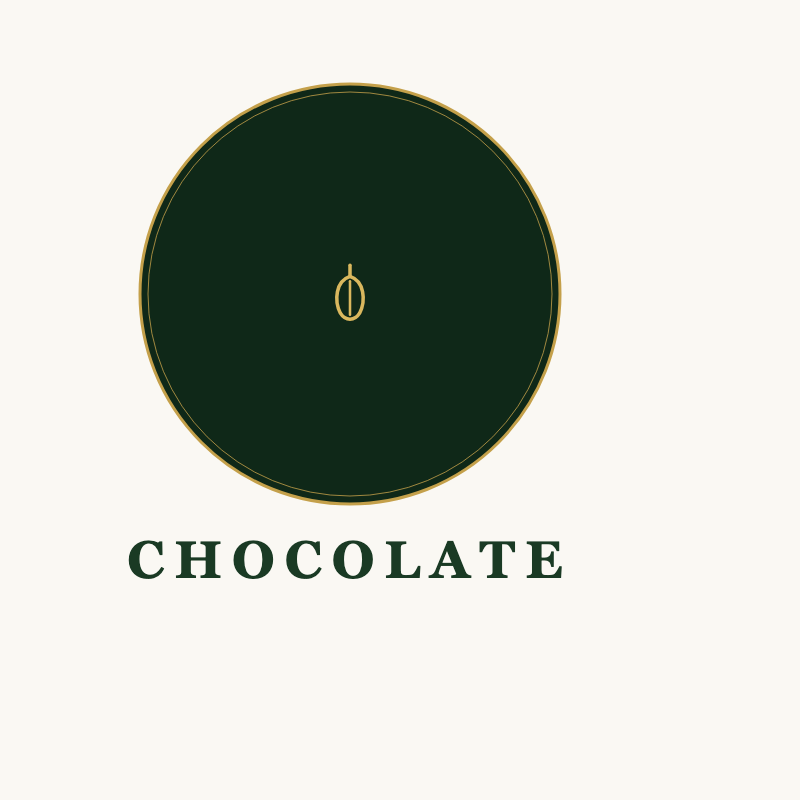
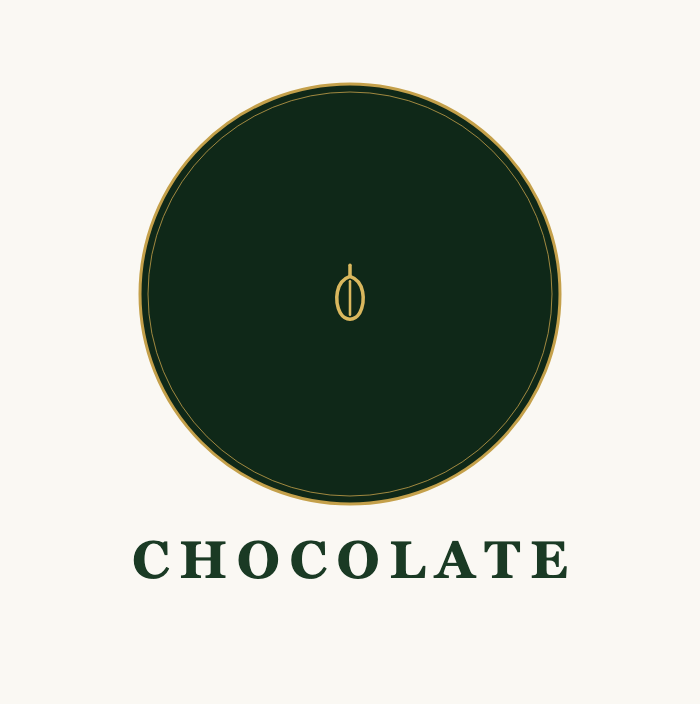
WS register v2: exact-fit renders + letter-spacing centering correction — all 10 assets pixel-audited to ±2px of canvas center

Changed region(s): [[0.15, 0.0938, 0.81, 0.8438], [0.42, 0.3438, 0.54, 0.4688]]

diff --git a/brand/gen_ws.py b/brand/gen_ws.py
@@ -15,10 +15,10 @@ def ws_masthead_pure(S=1400):
     cx = W/2
     return f'''<svg xmlns="http://www.w3.org/2000/svg" viewBox="0 0 {W} {H}">
 <rect width="{W}" height="{H}" fill="{CREAM}"/>
-<text x="{cx}" y="{H*0.42}" text-anchor="middle" font-family="{SERIF}" font-size="196" font-weight="500" fill="{GREEN}" letter-spacing="6">Zafra</text>
+<text x="{cx+3}" y="{H*0.42}" text-anchor="middle" font-family="{SERIF}" font-size="196" font-weight="500" fill="{GREEN}" letter-spacing="6">Zafra</text>
 <line x1="{cx-280}" y1="{H*0.50}" x2="{cx+280}" y2="{H*0.50}" stroke="{GOLD}" stroke-width="1.4"/>
-<text x="{cx}" y="{H*0.60}" text-anchor="middle" font-family="{SANS}" font-size="34" font-weight="500" fill="{GOLD}" letter-spacing="18">TRADING CO.</text>
-<text x="{cx}" y="{H*0.72}" text-anchor="middle" font-family="{SANS}" font-size="22" font-weight="400" fill="{GREEN}" letter-spacing="9" opacity=".75">SAN JUAN · PUERTO RICO</text>
+<text x="{cx+9}" y="{H*0.60}" text-anchor="middle" font-family="{SANS}" font-size="34" font-weight="500" fill="{GOLD}" letter-spacing="18">TRADING CO.</text>
+<text x="{cx+4.5}" y="{H*0.72}" text-anchor="middle" font-family="{SANS}" font-size="22" font-weight="400" fill="{GREEN}" letter-spacing="9" opacity=".75">SAN JUAN · PUERTO RICO</text>
 </svg>'''
 
 def ws_masthead_stamp(S=1400):
@@ -31,10 +31,10 @@ def ws_masthead_stamp(S=1400):
 <circle cx="{cx}" cy="{H*0.26}" r="{r}" fill="none" stroke="{GOLD}" stroke-width="2.4"/>
 <circle cx="{cx}" cy="{H*0.26}" r="{r-9}" fill="none" stroke="{GOLD}" stroke-width="0.9"/>
 {glyph_coffee(cx, H*0.26, 1.05)}
-<text x="{cx}" y="{H*0.56}" text-anchor="middle" font-family="{SERIF}" font-size="172" font-weight="500" fill="{GREEN}" letter-spacing="6">Zafra</text>
-<text x="{cx}" y="{H*0.655}" text-anchor="middle" font-family="{SANS}" font-size="30" font-weight="500" fill="{GOLD}" letter-spacing="16">TRADING CO.</text>
+<text x="{cx+3}" y="{H*0.56}" text-anchor="middle" font-family="{SERIF}" font-size="172" font-weight="500" fill="{GREEN}" letter-spacing="6">Zafra</text>
+<text x="{cx+8}" y="{H*0.655}" text-anchor="middle" font-family="{SANS}" font-size="30" font-weight="500" fill="{GOLD}" letter-spacing="16">TRADING CO.</text>
 <line x1="{cx-240}" y1="{H*0.705}" x2="{cx+240}" y2="{H*0.705}" stroke="{GOLD}" stroke-width="1.2"/>
-<text x="{cx}" y="{H*0.775}" text-anchor="middle" font-family="{SANS}" font-size="20" font-weight="400" fill="{GREEN}" letter-spacing="8" opacity=".75">SAN JUAN · PUERTO RICO</text>
+<text x="{cx+4}" y="{H*0.775}" text-anchor="middle" font-family="{SANS}" font-size="20" font-weight="400" fill="{GREEN}" letter-spacing="8" opacity=".75">SAN JUAN · PUERTO RICO</text>
 </svg>'''
 
 def ws_masthead_frame(S=1400):
@@ -46,12 +46,12 @@ def ws_masthead_frame(S=1400):
 <rect width="{W}" height="{H}" fill="{CREAM}"/>
 <rect x="{m}" y="{m}" width="{W-2*m}" height="{H-2*m}" fill="none" stroke="{GOLD}" stroke-width="1.8"/>
 <rect x="{m+9}" y="{m+9}" width="{W-2*m-18}" height="{H-2*m-18}" fill="none" stroke="{GOLD}" stroke-width="0.7"/>
-<text x="{cx}" y="{H*0.40}" text-anchor="middle" font-family="{SERIF}" font-size="188" font-weight="500" fill="{GREEN}" letter-spacing="6">Zafra</text>
+<text x="{cx+3}" y="{H*0.40}" text-anchor="middle" font-family="{SERIF}" font-size="188" font-weight="500" fill="{GREEN}" letter-spacing="6">Zafra</text>
 <line x1="{cx-260}" y1="{H*0.475}" x2="{cx-40}" y2="{H*0.475}" stroke="{GOLD}" stroke-width="1.2"/>
 <line x1="{cx+40}" y1="{H*0.475}" x2="{cx+260}" y2="{H*0.475}" stroke="{GOLD}" stroke-width="1.2"/>
 <text x="{cx}" y="{H*0.485}" text-anchor="middle" font-family="{SERIF}" font-size="30" font-style="italic" font-weight="500" fill="{GOLD}">est.</text>
-<text x="{cx}" y="{H*0.60}" text-anchor="middle" font-family="{SANS}" font-size="32" font-weight="500" fill="{GREEN}" letter-spacing="17">TRADING CO.</text>
-<text x="{cx}" y="{H*0.70}" text-anchor="middle" font-family="{SANS}" font-size="21" font-weight="400" fill="{GOLD}" letter-spacing="8">SAN JUAN · PUERTO RICO</text>
+<text x="{cx+8.5}" y="{H*0.60}" text-anchor="middle" font-family="{SANS}" font-size="32" font-weight="500" fill="{GREEN}" letter-spacing="17">TRADING CO.</text>
+<text x="{cx+4}" y="{H*0.70}" text-anchor="middle" font-family="{SANS}" font-size="21" font-weight="400" fill="{GOLD}" letter-spacing="8">SAN JUAN · PUERTO RICO</text>
 </svg>'''
 
 def ws_masthead_wide(S=1400):
@@ -61,10 +61,10 @@ def ws_masthead_wide(S=1400):
     return f'''<svg xmlns="http://www.w3.org/2000/svg" viewBox="0 0 {W} {H}">
 <rect width="{W}" height="{H}" fill="{CREAM}"/>
 <line x1="{W*0.16}" y1="{H*0.30}" x2="{W*0.84}" y2="{H*0.30}" stroke="{GOLD}" stroke-width="1.4"/>
-<text x="{cx}" y="{H*0.52}" text-anchor="middle" font-family="{SERIF}" font-size="124" font-weight="600" fill="{GREEN}" letter-spacing="42">ZAFRA</text>
+<text x="{cx+21}" y="{H*0.52}" text-anchor="middle" font-family="{SERIF}" font-size="124" font-weight="600" fill="{GREEN}" letter-spacing="42">ZAFRA</text>
 <line x1="{W*0.16}" y1="{H*0.64}" x2="{W*0.84}" y2="{H*0.64}" stroke="{GOLD}" stroke-width="1.4"/>
 <text x="{cx}" y="{H*0.79}" text-anchor="middle" font-family="{SERIF}" font-size="42" font-style="italic" font-weight="500" fill="{GOLD}">Trading Co.</text>
-<text x="{cx}" y="{H*0.90}" text-anchor="middle" font-family="{SANS}" font-size="19" font-weight="400" fill="{GREEN}" letter-spacing="7" opacity=".7">SAN JUAN · PUERTO RICO</text>
+<text x="{cx+3.5}" y="{H*0.90}" text-anchor="middle" font-family="{SANS}" font-size="19" font-weight="400" fill="{GREEN}" letter-spacing="7" opacity=".7">SAN JUAN · PUERTO RICO</text>
 </svg>'''
 
 def product_stamp(name_es, glyph_fn, S=700, glyph_scale=1.35):
@@ -76,7 +76,7 @@ def product_stamp(name_es, glyph_fn, S=700, glyph_scale=1.35):
 <circle cx="{cx}" cy="{cy}" r="{r}" fill="none" stroke="{GOLD_L}" stroke-width="3"/>
 <circle cx="{cx}" cy="{cy}" r="{r-8}" fill="none" stroke="{GOLD_L}" stroke-width="1" opacity=".8"/>
 {glyph_fn(cx, cy, glyph_scale)}
-<text x="{cx}" y="{cy + r + 74}" text-anchor="middle" font-family="{SERIF}" font-size="52" font-weight="600" fill="{GREEN}" letter-spacing="10">{name_es}</text>
+<text x="{cx+5}" y="{cy + r + 74}" text-anchor="middle" font-family="{SERIF}" font-size="52" font-weight="600" fill="{GREEN}" letter-spacing="10">{name_es}</text>
 </svg>'''
 
 import subprocess
